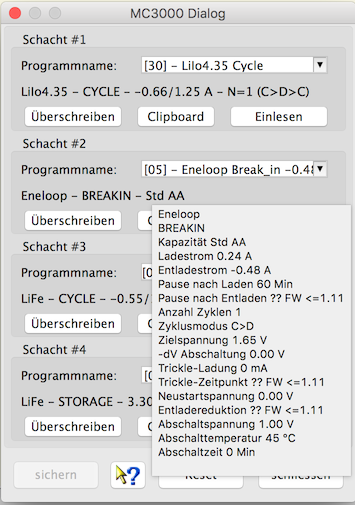
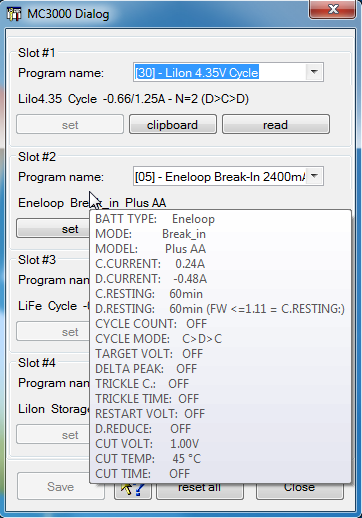
start enabling setting of slot programs (target FW >= 1.12)

diff --git a/SkyRC/src/help/de/HelpInfo.html b/SkyRC/src/help/de/HelpInfo.html
@@ -22,14 +22,14 @@
 <HTML>
 <HEAD>
 	<META HTTP-EQUIV="CONTENT-TYPE" CONTENT="text/html; charset=utf-8">
-	<TITLE>DataExplorer - ScyRC MC3000 Ger&auml;tedialog</TITLE>
+	<TITLE>DataExplorer - SkyRC MC3000 Ger&auml;tedialog</TITLE>
 	<META NAME="CREATED" CONTENT="0;0">
 	<META NAME="CHANGEDBY" CONTENT="Winfried Br&uuml;gmann">
 	<META NAME="CHANGED" CONTENT="20080718;18455985">
 </HEAD>
 <BODY LANG="de-DE" DIR="LTR">
 <DIV TYPE=HEADER>
-	<H2><FONT FACE="Arial"><FONT SIZE=4><I>ScyRC MC3000 Ger&auml;tedialog</I></FONT></FONT></H2>
+	<H2><FONT FACE="Arial"><FONT SIZE=4><I>SkyRC MC3000 Ger&auml;tedialog</I></FONT></FONT></H2>
 </DIV>
 <P>Der gezeigte Ger&auml;tedialog dient zur Konfiguration temporärer Programmspeicher, die aus vorher am Gerät konfigurierten Programmspeichern
 gebildet werden. Man kann sich eine Sicherungskopie der Programmspeicher ablegen, die nach einem Geräte-Reset, z.B. durch einen Firmware-Update,

diff --git a/SkyRC/src/gde/device/skyrc/MC3000Dialog.java b/SkyRC/src/gde/device/skyrc/MC3000Dialog.java
@@ -317,12 +317,15 @@ public class MC3000Dialog extends DeviceDialog {
 									for (int i = 0; i < 4; i++) {
 										switch (i) {
 										case 0:
-											programLables[i].setText(MC3000Dialog.this.slotInitialSettings_0 != null ? MC3000Dialog.this.slotInitialSettings_0.toString4View() : Messages.getString(MessageIds.GDE_MSGT3654));
-											programLables[i].setToolTipText(MC3000Dialog.this.slotInitialSettings_0 != null ? MC3000Dialog.this.slotInitialSettings_0.toString4Tip()
-													: Messages.getString(MessageIds.GDE_MSGT3654));
+											//programLables[i].setText(MC3000Dialog.this.slotInitialSettings_0 != null ? MC3000Dialog.this.slotInitialSettings_0.toString4View() : Messages.getString(MessageIds.GDE_MSGT3654));
+											//programLables[i].setToolTipText(MC3000Dialog.this.slotInitialSettings_0 != null ? MC3000Dialog.this.slotInitialSettings_0.toString4Tip()
+											//		: Messages.getString(MessageIds.GDE_MSGT3654));
 											if (MC3000Dialog.this.slotInitialSettings_0 != null) {
 												tmpProgramBuffer = MC3000Dialog.this.slotInitialSettings_0.getBuffer((byte) 0,firmware);
 												MC3000Dialog.this.usbPort.setSlotProgram(MC3000Dialog.this.usbInterface, tmpProgramBuffer);
+												MC3000Dialog.this.slotSettings_0 = MC3000Dialog.this.device.new SlotSettings(MC3000Dialog.this.usbPort.getSlotData(MC3000Dialog.this.usbInterface,	MC3000UsbPort.QuerySlotData.SLOT_0.value()), firmware);
+												MC3000Dialog.this.programLables[i].setText(MC3000Dialog.this.slotSettings_0 != null ? MC3000Dialog.this.slotSettings_0.toString4View() : Messages.getString(MessageIds.GDE_MSGT3654));
+												MC3000Dialog.this.programLables[i].setToolTipText(MC3000Dialog.this.slotSettings_0 != null ? MC3000Dialog.this.slotSettings_0.toString4Tip() : Messages.getString(MessageIds.GDE_MSGT3654));
 											}
 											break;
 										case 1:
@@ -332,6 +335,9 @@ public class MC3000Dialog extends DeviceDialog {
 											if (MC3000Dialog.this.slotInitialSettings_1 != null) {
 												tmpProgramBuffer = MC3000Dialog.this.slotInitialSettings_1.getBuffer((byte) 1, firmware);
 												MC3000Dialog.this.usbPort.setSlotProgram(MC3000Dialog.this.usbInterface, tmpProgramBuffer);
+												MC3000Dialog.this.slotSettings_1 = MC3000Dialog.this.device.new SlotSettings(MC3000Dialog.this.usbPort.getSlotData(MC3000Dialog.this.usbInterface,	MC3000UsbPort.QuerySlotData.SLOT_1.value()), firmware);
+												MC3000Dialog.this.programLables[i].setText(MC3000Dialog.this.slotSettings_1 != null ? MC3000Dialog.this.slotSettings_1.toString4View() : Messages.getString(MessageIds.GDE_MSGT3654));
+												MC3000Dialog.this.programLables[i].setToolTipText(MC3000Dialog.this.slotSettings_1 != null ? MC3000Dialog.this.slotSettings_1.toString4Tip() : Messages.getString(MessageIds.GDE_MSGT3654));
 											}
 											break;
 										case 2:
@@ -341,6 +347,9 @@ public class MC3000Dialog extends DeviceDialog {
 											if (MC3000Dialog.this.slotInitialSettings_2 != null) {
 												tmpProgramBuffer = MC3000Dialog.this.slotInitialSettings_2.getBuffer((byte) 2, firmware);
 												MC3000Dialog.this.usbPort.setSlotProgram(MC3000Dialog.this.usbInterface, tmpProgramBuffer);
+												MC3000Dialog.this.slotSettings_2 = MC3000Dialog.this.device.new SlotSettings(MC3000Dialog.this.usbPort.getSlotData(MC3000Dialog.this.usbInterface,	MC3000UsbPort.QuerySlotData.SLOT_2.value()), firmware);
+												MC3000Dialog.this.programLables[i].setText(MC3000Dialog.this.slotSettings_2 != null ? MC3000Dialog.this.slotSettings_2.toString4View() : Messages.getString(MessageIds.GDE_MSGT3654));
+												MC3000Dialog.this.programLables[i].setToolTipText(MC3000Dialog.this.slotSettings_2 != null ? MC3000Dialog.this.slotSettings_2.toString4Tip() : Messages.getString(MessageIds.GDE_MSGT3654));
 											}
 											break;
 										case 3:
@@ -350,6 +359,9 @@ public class MC3000Dialog extends DeviceDialog {
 											if (MC3000Dialog.this.slotInitialSettings_3 != null) {
 												tmpProgramBuffer = MC3000Dialog.this.slotInitialSettings_3.getBuffer((byte) 3, firmware);
 												MC3000Dialog.this.usbPort.setSlotProgram(MC3000Dialog.this.usbInterface, tmpProgramBuffer);
+												MC3000Dialog.this.slotSettings_3 = MC3000Dialog.this.device.new SlotSettings(MC3000Dialog.this.usbPort.getSlotData(MC3000Dialog.this.usbInterface,	MC3000UsbPort.QuerySlotData.SLOT_3.value()), firmware);
+												MC3000Dialog.this.programLables[i].setText(MC3000Dialog.this.slotSettings_3 != null ? MC3000Dialog.this.slotSettings_3.toString4View() : Messages.getString(MessageIds.GDE_MSGT3654));
+												MC3000Dialog.this.programLables[i].setToolTipText(MC3000Dialog.this.slotSettings_3 != null ? MC3000Dialog.this.slotSettings_3.toString4Tip() : Messages.getString(MessageIds.GDE_MSGT3654));
 											}
 											break;
 
@@ -624,23 +636,36 @@ public class MC3000Dialog extends DeviceDialog {
 						MC3000Dialog.this.usbInterface = MC3000Dialog.this.usbPort.openUsbPort(MC3000Dialog.this.device);
 						MC3000Dialog.this.isConnectedByButton = true;
 					}
+					int firmware = MC3000Dialog.this.systemSettings.getFirmwareVersionAsInt();
 					byte[] newProgramBuffer;
 					switch (index) {
 					case 0:
-						newProgramBuffer = MC3000Dialog.this.slotSettings_0.getBuffer((byte) 0, MC3000Dialog.this.systemSettings.getFirmwareVersionAsInt());
+						newProgramBuffer = MC3000Dialog.this.slotSettings_0.getBuffer((byte) 0, firmware);
 						MC3000Dialog.this.usbPort.setSlotProgram(MC3000Dialog.this.usbInterface, newProgramBuffer);
+						MC3000Dialog.this.slotSettings_0 = MC3000Dialog.this.device.new SlotSettings(MC3000Dialog.this.usbPort.getSlotData(MC3000Dialog.this.usbInterface,	MC3000UsbPort.QuerySlotData.SLOT_0.value()), firmware);
+						MC3000Dialog.this.programLables[index].setText(MC3000Dialog.this.slotSettings_0 != null ? MC3000Dialog.this.slotSettings_0.toString4View() : Messages.getString(MessageIds.GDE_MSGT3654));
+						MC3000Dialog.this.programLables[index].setToolTipText(MC3000Dialog.this.slotSettings_0 != null ? MC3000Dialog.this.slotSettings_0.toString4Tip() : Messages.getString(MessageIds.GDE_MSGT3654));
 						break;
 					case 1:
-						newProgramBuffer = MC3000Dialog.this.slotSettings_1.getBuffer((byte) 1, MC3000Dialog.this.systemSettings.getFirmwareVersionAsInt());
+						newProgramBuffer = MC3000Dialog.this.slotSettings_1.getBuffer((byte) 1, firmware);
 						MC3000Dialog.this.usbPort.setSlotProgram(MC3000Dialog.this.usbInterface, newProgramBuffer);
+						MC3000Dialog.this.slotSettings_1 = MC3000Dialog.this.device.new SlotSettings(MC3000Dialog.this.usbPort.getSlotData(MC3000Dialog.this.usbInterface,	MC3000UsbPort.QuerySlotData.SLOT_1.value()), firmware);
+						MC3000Dialog.this.programLables[index].setText(MC3000Dialog.this.slotSettings_1 != null ? MC3000Dialog.this.slotSettings_1.toString4View() : Messages.getString(MessageIds.GDE_MSGT3654));
+						MC3000Dialog.this.programLables[index].setToolTipText(MC3000Dialog.this.slotSettings_1 != null ? MC3000Dialog.this.slotSettings_1.toString4Tip() : Messages.getString(MessageIds.GDE_MSGT3654));
 						break;
 					case 2:
-						newProgramBuffer = MC3000Dialog.this.slotSettings_2.getBuffer((byte) 2, MC3000Dialog.this.systemSettings.getFirmwareVersionAsInt());
+						newProgramBuffer = MC3000Dialog.this.slotSettings_2.getBuffer((byte) 2, firmware);
 						MC3000Dialog.this.usbPort.setSlotProgram(MC3000Dialog.this.usbInterface, newProgramBuffer);
+						MC3000Dialog.this.slotSettings_2 = MC3000Dialog.this.device.new SlotSettings(MC3000Dialog.this.usbPort.getSlotData(MC3000Dialog.this.usbInterface,	MC3000UsbPort.QuerySlotData.SLOT_2.value()), firmware);
+						MC3000Dialog.this.programLables[index].setText(MC3000Dialog.this.slotSettings_2 != null ? MC3000Dialog.this.slotSettings_2.toString4View() : Messages.getString(MessageIds.GDE_MSGT3654));
+						MC3000Dialog.this.programLables[index].setToolTipText(MC3000Dialog.this.slotSettings_2 != null ? MC3000Dialog.this.slotSettings_2.toString4Tip() : Messages.getString(MessageIds.GDE_MSGT3654));
 						break;
 					case 3:
-						newProgramBuffer = MC3000Dialog.this.slotSettings_3.getBuffer((byte) 3, MC3000Dialog.this.systemSettings.getFirmwareVersionAsInt());
+						newProgramBuffer = MC3000Dialog.this.slotSettings_3.getBuffer((byte) 3, firmware);
 						MC3000Dialog.this.usbPort.setSlotProgram(MC3000Dialog.this.usbInterface, newProgramBuffer);
+						MC3000Dialog.this.slotSettings_3 = MC3000Dialog.this.device.new SlotSettings(MC3000Dialog.this.usbPort.getSlotData(MC3000Dialog.this.usbInterface,	MC3000UsbPort.QuerySlotData.SLOT_3.value()), firmware);
+						MC3000Dialog.this.programLables[index].setText(MC3000Dialog.this.slotSettings_3 != null ? MC3000Dialog.this.slotSettings_3.toString4View() : Messages.getString(MessageIds.GDE_MSGT3654));
+						MC3000Dialog.this.programLables[index].setToolTipText(MC3000Dialog.this.slotSettings_3 != null ? MC3000Dialog.this.slotSettings_3.toString4Tip() : Messages.getString(MessageIds.GDE_MSGT3654));
 						break;
 
 					default:
@@ -652,6 +677,7 @@ public class MC3000Dialog extends DeviceDialog {
 					MC3000Dialog.this.application.openMessageDialogAsync(e.getMessage());
 				}
 				finally {
+					writeButton.setEnabled(false);
 					if (MC3000Dialog.this.isConnectedByButton && MC3000Dialog.this.usbPort != null && MC3000Dialog.this.usbPort.isConnected()) {
 						try {
 							MC3000Dialog.this.usbPort.closeUsbPort(MC3000Dialog.this.usbInterface != null ? MC3000Dialog.this.usbInterface : null);

diff --git a/SkyRC/src/gde/device/skyrc/MC3000.java b/SkyRC/src/gde/device/skyrc/MC3000.java
@@ -392,7 +392,7 @@ public class MC3000 extends DeviceConfiguration implements IDevice {
 				sb.append(String.format(Locale.ENGLISH, "%-14s %4.2fV", Messages.getString(MessageIds.GDE_MSGT3671), this.getDischargeCutVoltage() / 1000.0)).append(GDE.STRING_NEW_LINE);
 			//CUT TEMP:
 			if (this.cutTemperature >= 20)
-				sb.append(String.format(Locale.ENGLISH, "%-14s %d %s", Messages.getString(MessageIds.GDE_MSGT3672), this.cutTemperature, this.temperatureUnit == 0 ? "°C" : "°F"));
+				sb.append(String.format(Locale.ENGLISH, "%-14s %d%s", Messages.getString(MessageIds.GDE_MSGT3672), this.cutTemperature, this.temperatureUnit == 0 ? "°C" : "°F"));
 			else
 				sb.append(String.format(Locale.ENGLISH, "%-14s OFF", Messages.getString(MessageIds.GDE_MSGT3672)));
 			//CUT TIME:			
@@ -782,7 +782,7 @@ public class MC3000 extends DeviceConfiguration implements IDevice {
 					break;
 				case 4: //CYCLE
 					sb.append(String.format(Locale.ENGLISH, "-%4.2f/%4.2fA", this.getDischargeCurrent() / 1000.0, this.getChargeCurrent() / 1000.0));
-					sb.append(String.format(" - N=%d (%s)", this.numberCycle, this.getCycleModeString()));
+					sb.append(String.format("  N=%d (%s)", this.numberCycle, this.getCycleModeString()));
 					break;
 				default:
 					break;
@@ -875,16 +875,15 @@ public class MC3000 extends DeviceConfiguration implements IDevice {
 				reducedBuffer[30] = MC3000UsbPort.calculateCheckSum(reducedBuffer, 29);
 				reducedBuffer[31] = (byte) 0xFF;
 				reducedBuffer[32] = (byte) 0xFF;
-				MC3000.log.log(java.util.logging.Level.OFF, StringHelper.byte2Hex2CharString(reducedBuffer, 64));
-				MC3000.log
-						.log(
-								java.util.logging.Level.OFF,
-								String
-										.format(
-												"slot#=%02d BATT TYPE=%02d MODE=%02d CAPACITY=%04d C.CURRENT=%04d D.CURRENT=%04d D.REDUCE=%04d TARGET VOLT=%04d D.REDUCE=%04d TERMINATION=%04d CYCLE COUNT=%02d C.RESTING=%02d CYCLE MODE=%d DELTA PEAK=%02d TRICKLE C=%02d CUT TEMP=%02d CUT TIME=%03d RESTART VOLT=%04d",
-												reducedBuffer[4], reducedBuffer[5], this.operationMode, reducedBuffer[6] * 100, getChargeCurrent(), getDischargeCurrent(), getDischargeReduceCurrent(), getChargeEndVoltage(),
-												getDischargeReduceCurrent(), getChargeEndCurrent(), this.numberCycle, this.chargeRestingTime & 0xFF, this.cycleMode, this.peakSenseVoltage, this.trickleCurrent, this.cutTemperature,
-												DataParser.parse2UnsignedShort(reducedBuffer[27], reducedBuffer[26]), DataParser.parse2UnsignedShort(reducedBuffer[29], reducedBuffer[28])));
+				if (MC3000.log.isLoggable(Level.OFF)) {
+					MC3000.log.log(java.util.logging.Level.OFF, StringHelper.byte2Hex2CharString(reducedBuffer, 64));
+					MC3000.log.log(java.util.logging.Level.OFF,
+						String.format("slot#=%02d BATT TYPE=%02d MODE=%02d CAPACITY=%04d C.CURRENT=%04d D.CURRENT=%04d D.REDUCE=%04d TARGET VOLT=%04d D.REDUCE=%04d TERMINATION=%04d CYCLE COUNT=%02d C.RESTING=%02d CYCLE MODE=%d DELTA PEAK=%02d TRICKLE C=%02d CUT TEMP=%02d CUT TIME=%03d RESTART VOLT=%04d",
+													reducedBuffer[4], reducedBuffer[5], this.operationMode, (reducedBuffer[6] & 0xFF) * 100, getChargeCurrent(), getDischargeCurrent(), getDischargeReduceCurrent(),
+													getChargeEndVoltage(), getDischargeReduceCurrent(), getChargeEndCurrent(), this.numberCycle, this.chargeRestingTime & 0xFF, this.cycleMode, this.peakSenseVoltage,
+													this.trickleCurrent, this.cutTemperature, DataParser.parse2UnsignedShort(reducedBuffer[27], reducedBuffer[26]),
+													DataParser.parse2UnsignedShort(reducedBuffer[29], reducedBuffer[28])));
+				}
 	
 				//D.RESTING: TRICKLE TIME: CUT VOLT:
 			}

diff --git a/SkyRC/src/gde/device/skyrc/MC3000UsbPort.java b/SkyRC/src/gde/device/skyrc/MC3000UsbPort.java
@@ -31,6 +31,7 @@ import gde.utils.StringHelper;
 import java.io.IOException;
 import java.util.logging.Logger;
 
+import javax.usb.UsbException;
 import javax.usb.UsbInterface;
 
 /**
@@ -272,7 +273,7 @@ public class MC3000UsbPort extends DeviceCommPort implements IDeviceCommPort {
 	 * @throws Exception
 	 */
 	public synchronized byte[] setSlotProgram(final UsbInterface usbInterface, final byte[] buffer) throws Exception {
-		final String $METHOD_NAME = "getSystemSettings"; //$NON-NLS-1$
+		final String $METHOD_NAME = "setSlotProgram"; //$NON-NLS-1$
 		byte[] data = new byte[Math.abs(this.dataSize)];
 		UsbInterface iface = null;
 		boolean isPortOpenedByCall = false;
@@ -294,9 +295,9 @@ public class MC3000UsbPort extends DeviceCommPort implements IDeviceCommPort {
 			this.read(iface, this.endpointOut, data);			
 			if (log.isLoggable(Level.FINE)) log.logp(Level.FINE, $CLASS_NAME, $METHOD_NAME, StringHelper.byte2Hex2CharString(data, data.length));
 			
-			if (!this.isChecksumOK(data, 16, 30, 31) && this.retrys-- >= 0) {
-				log.logp(Level.WARNING, $CLASS_NAME, $METHOD_NAME, String.format("Error: Checksum = 0x%02X -> %b", MC3000UsbPort.calculateCheckSum(data), this.isChecksumOK(data)));
-				return this.getSystemSettings(iface);
+			if ((data[0]&0xFF) != 0xF0) {
+				log.logp(Level.WARNING, $CLASS_NAME, $METHOD_NAME, StringHelper.byte2Hex2CharString(data, data.length));
+				throw new UsbException("Error: answer != 0xF0");
 			}
 		}
 		catch (Exception e) {
